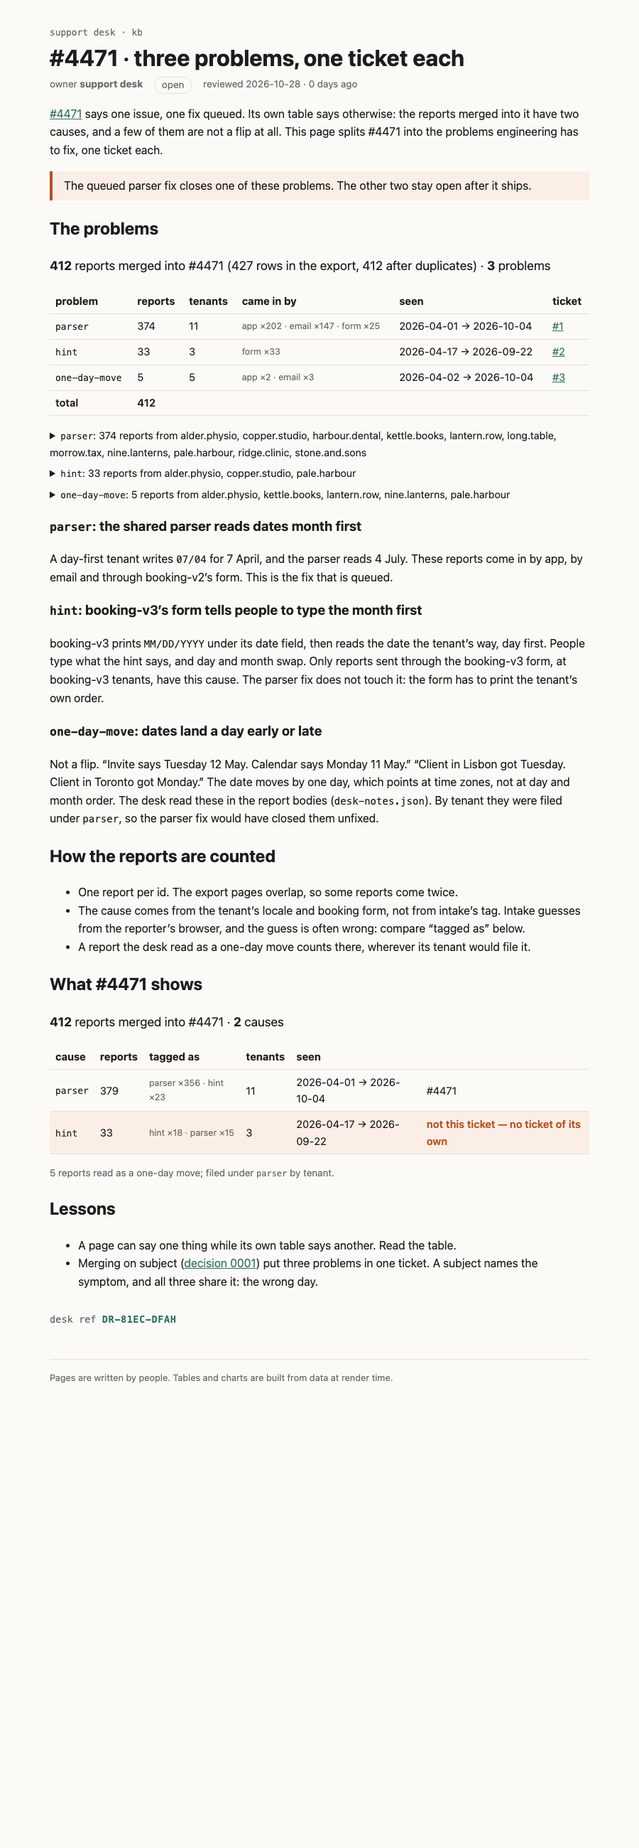
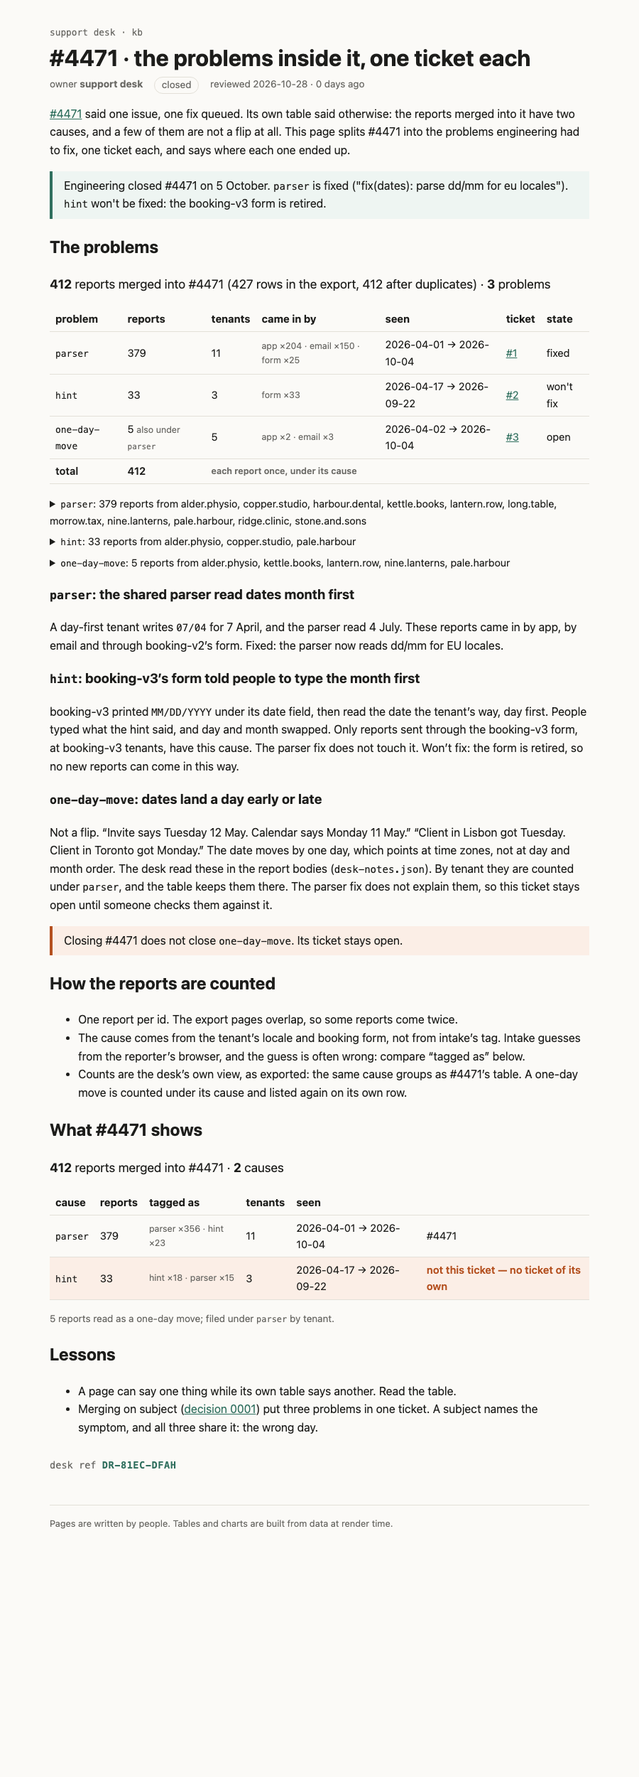
kb page: #4471 closed 5 Oct (parser fixed, hint won't fix); count with the desk's cause view

Changed region(s): [[0.0622, 0.0, 0.9022, 0.8112]]

diff --git a/rendered/kb/incidents/4471/problems.html b/rendered/kb/incidents/4471/problems.html
@@ -3,29 +3,32 @@
   <head>
     <meta charset="utf-8" />
     <meta name="viewport" content="width=device-width, initial-scale=1" />
-    <!--e2jw2j--><!----><title>#4471 · three problems, one ticket each · support kb</title>
+    <!--e2jw2j--><!----><title>#4471 · the problems inside it, one ticket each · support kb</title>
 		<style>:root{--bg:#fbfaf7;--fg:#1d1d1b;--muted:#6b6a66;--line:#e3e0d8;--accent:#2f6f5e;--warn:#b4501f;--warn-bg:#fbeee6;--note-bg:#eef5f2;--mono:ui-monospace, "Cascadia Code", Menlo, monospace}@media (prefers-color-scheme:dark){:root{--bg:#171716;--fg:#ecebe6;--muted:#9c9a93;--line:#34332f;--accent:#6fbfa6;--warn:#f0905d;--warn-bg:#3a2418;--note-bg:#1d2c27}}body{background:var(--bg);color:var(--fg);margin:0;font:16px/1.6 system-ui,sans-serif}.kb table{border-collapse:collapse;width:100%;margin:1rem 0;font-size:.92rem}.kb th,.kb td{border-bottom:1px solid var(--line);text-align:left;padding:.35rem .5rem}.kb code{font-family:var(--mono);font-size:.88em}.kb a{color:var(--accent)}.kb.svelte-e2jw2j{max-width:760px;margin:0 auto;padding:2rem 16px 4rem}.crumb.svelte-e2jw2j{font:.8rem var(--mono);color:var(--muted);text-decoration:none}h1.svelte-e2jw2j{margin:.25rem 0 .5rem;line-height:1.2}.meta.svelte-e2jw2j{color:var(--muted);flex-wrap:wrap;gap:.5rem 1rem;margin:0;font-size:.85rem;display:flex}.status.svelte-e2jw2j{border:1px solid var(--line);border-radius:99px;padding:0 .6rem}.stale.svelte-e2jw2j{color:var(--warn);font-weight:600}.banner.svelte-e2jw2j{background:var(--warn-bg);color:var(--warn);border-radius:6px;padding:.6rem 1rem}footer.svelte-e2jw2j{color:var(--muted);border-top:1px solid var(--line);margin-top:3rem;padding-top:1rem;font-size:.8rem}
 
 aside.svelte-17bri61{border-left:4px solid var(--accent);background:var(--note-bg);margin:1rem 0;padding:.5rem 1rem}aside.warn.svelte-17bri61{border-color:var(--warn);background:var(--warn-bg)}
 
 .sum.svelte-12oyimm{font-size:1.1rem}.tags.svelte-12oyimm,.note.svelte-12oyimm{color:var(--muted);font-size:.85em}.wrong.svelte-12oyimm td:where(.svelte-12oyimm){background:var(--warn-bg)}.wrong.svelte-12oyimm td:where(.svelte-12oyimm):last-child{color:var(--warn);font-weight:600}
 
-.sum.svelte-1op6c6{font-size:1.1rem}.muted.svelte-1op6c6{color:var(--muted);font-size:.85em}.missing.svelte-1op6c6 td:where(.svelte-1op6c6){background:var(--warn-bg)}.missing.svelte-1op6c6 td:where(.svelte-1op6c6):last-child{color:var(--warn);font-weight:600}tfoot.svelte-1op6c6 td:where(.svelte-1op6c6){font-weight:600}details.svelte-1op6c6{margin:.4rem 0;font-size:.9rem}.ids.svelte-1op6c6{font:.8rem var(--mono);color:var(--muted);word-spacing:.3em}.stamp.svelte-1280m42{font:.85rem var(--mono);color:var(--muted);margin:2rem 0 0}.stamp.svelte-1280m42 b:where(.svelte-1280m42){color:var(--accent);letter-spacing:.04em}.missing.svelte-1280m42{color:var(--warn)}
+.sum.svelte-1op6c6{font-size:1.1rem}.muted.svelte-1op6c6{color:var(--muted);font-size:.85em}.missing.svelte-1op6c6 td:where(.svelte-1op6c6){background:var(--warn-bg)}.missing.svelte-1op6c6 td:where(.svelte-1op6c6):nth-last-child(2){color:var(--warn);font-weight:600}tfoot.svelte-1op6c6 td:where(.svelte-1op6c6){font-weight:600}details.svelte-1op6c6{margin:.4rem 0;font-size:.9rem}.ids.svelte-1op6c6{font:.8rem var(--mono);color:var(--muted);word-spacing:.3em}.stamp.svelte-1280m42{font:.85rem var(--mono);color:var(--muted);margin:2rem 0 0}.stamp.svelte-1280m42 b:where(.svelte-1280m42){color:var(--accent);letter-spacing:.04em}.missing.svelte-1280m42{color:var(--warn)}
 </style>
 		</head>
   <body>
-    <div style="display: contents"><!--[--><!--[--><!--[0--><!--[--><!--[--><!--[-1--><!--[--><div class="kb svelte-e2jw2j"><header><a class="crumb svelte-e2jw2j" href="/kb">support desk · kb</a> <h1 class="svelte-e2jw2j">#4471 · three problems, one ticket each</h1> <p class="meta svelte-e2jw2j"><span>owner <b>support desk</b></span> <span class="status open svelte-e2jw2j">open</span> <span class="svelte-e2jw2j">reviewed 2026-10-28 · 0 days ago</span></p></header> <!--[-1--><!--]--> <main><p><a href="/kb/incidents/4471">#4471</a> says one issue, one fix queued. Its own table says otherwise: the
+    <div style="display: contents"><!--[--><!--[--><!--[0--><!--[--><!--[--><!--[-1--><!--[--><div class="kb svelte-e2jw2j"><header><a class="crumb svelte-e2jw2j" href="/kb">support desk · kb</a> <h1 class="svelte-e2jw2j">#4471 · the problems inside it, one ticket each</h1> <p class="meta svelte-e2jw2j"><span>owner <b>support desk</b></span> <span class="status closed svelte-e2jw2j">closed</span> <span class="svelte-e2jw2j">reviewed 2026-10-28 · 0 days ago</span></p></header> <!--[-1--><!--]--> <main><p><a href="/kb/incidents/4471">#4471</a> said one issue, one fix queued. Its own table said otherwise: the
 reports merged into it have two causes, and a few of them are not a flip at all. This page splits
-#4471 into the problems engineering has to fix, one ticket each.</p> <aside class="warn svelte-17bri61"><!---->The queued parser fix closes one of these problems. The other two stay open after it ships.<!----></aside><!----> <h2>The problems</h2> <p class="sum svelte-1op6c6"><strong>412</strong> reports merged into #4471 (427 rows in the export,
-  412 after duplicates) · <strong>3</strong> problems</p> <table><thead><tr><th>problem</th><th>reports</th><th>tenants</th><th>came in by</th><th>seen</th><th>ticket</th></tr></thead><tbody><!--[--><tr class="svelte-1op6c6"><td class="svelte-1op6c6"><code>parser</code></td><td class="svelte-1op6c6">374</td><td class="svelte-1op6c6">11</td><td class="muted svelte-1op6c6">app ×202 · email ×147 · form ×25</td><td class="svelte-1op6c6">2026-04-01 → 2026-10-04</td><td class="svelte-1op6c6"><!--[0--><a href="https://github.com/a12233/kb-4471/issues/1">#1</a><!--]--></td></tr><tr class="svelte-1op6c6"><td class="svelte-1op6c6"><code>hint</code></td><td class="svelte-1op6c6">33</td><td class="svelte-1op6c6">3</td><td class="muted svelte-1op6c6">form ×33</td><td class="svelte-1op6c6">2026-04-17 → 2026-09-22</td><td class="svelte-1op6c6"><!--[0--><a href="https://github.com/a12233/kb-4471/issues/2">#2</a><!--]--></td></tr><tr class="svelte-1op6c6"><td class="svelte-1op6c6"><code>one-day-move</code></td><td class="svelte-1op6c6">5</td><td class="svelte-1op6c6">5</td><td class="muted svelte-1op6c6">app ×2 · email ×3</td><td class="svelte-1op6c6">2026-04-02 → 2026-10-04</td><td class="svelte-1op6c6"><!--[0--><a href="https://github.com/a12233/kb-4471/issues/3">#3</a><!--]--></td></tr><!--]--></tbody><tfoot class="svelte-1op6c6"><tr><td class="svelte-1op6c6">total</td><td class="svelte-1op6c6">412</td><td colspan="4" class="svelte-1op6c6"></td></tr></tfoot></table> <!--[--><details class="svelte-1op6c6"><summary><code>parser</code>: 374 reports from alder.physio, copper.studio, harbour.dental, kettle.books, lantern.row, long.table, morrow.tax, nine.lanterns, pale.harbour, ridge.clinic, stone.and.sons</summary> <p class="ids svelte-1op6c6">R-41200 R-41201 R-41203 R-41204 R-41205 R-41206 R-41208 R-41210 R-41211 R-41212 R-41213 R-41214 R-41215 R-41216 R-41217 R-41218 R-41219 R-41220 R-41221 R-41222 R-41223 R-41224 R-41225 R-41227 R-41228 R-41229 R-41231 R-41232 R-41233 R-41234 R-41235 R-41237 R-41238 R-41239 R-41240 R-41242 R-41243 R-41244 R-41245 R-41246 R-41247 R-41248 R-41249 R-41250 R-41252 R-41253 R-41254 R-41255 R-41256 R-41257 R-41258 R-41260 R-41261 R-41263 R-41264 R-41265 R-41266 R-41267 R-41268 R-41269 R-41270 R-41271 R-41272 R-41273 R-41274 R-41276 R-41277 R-41278 R-41279 R-41280 R-41281 R-41282 R-41283 R-41284 R-41285 R-41286 R-41287 R-41288 R-41289 R-41290 R-41291 R-41292 R-41293 R-41295 R-41296 R-41297 R-41298 R-41299 R-41300 R-41301 R-41302 R-41303 R-41304 R-41306 R-41309 R-41310 R-41311 R-41312 R-41313 R-41314 R-41315 R-41316 R-41317 R-41318 R-41319 R-41320 R-41321 R-41322 R-41323 R-41324 R-41325 R-41327 R-41328 R-41329 R-41330 R-41331 R-41332 R-41333 R-41334 R-41335 R-41336 R-41337 R-41338 R-41339 R-41340 R-41341 R-41342 R-41343 R-41345 R-41346 R-41347 R-41348 R-41349 R-41350 R-41351 R-41352 R-41353 R-41354 R-41355 R-41356 R-41357 R-41358 R-41359 R-41360 R-41361 R-41362 R-41363 R-41364 R-41365 R-41367 R-41368 R-41369 R-41370 R-41371 R-41373 R-41374 R-41375 R-41376 R-41377 R-41378 R-41379 R-41380 R-41381 R-41382 R-41383 R-41385 R-41386 R-41388 R-41389 R-41390 R-41391 R-41392 R-41393 R-41394 R-41395 R-41397 R-41398 R-41399 R-41401 R-41402 R-41403 R-41404 R-41405 R-41408 R-41409 R-41410 R-41411 R-41412 R-41413 R-41414 R-41417 R-41419 R-41420 R-41421 R-41422 R-41423 R-41424 R-41425 R-41427 R-41429 R-41430 R-41431 R-41432 R-41433 R-41434 R-41435 R-41436 R-41437 R-41438 R-41440 R-41442 R-41443 R-41444 R-41445 R-41446 R-41447 R-41448 R-41450 R-41451 R-41452 R-41454 R-41455 R-41457 R-41458 R-41459 R-41461 R-41462 R-41463 R-41464 R-41465 R-41466 R-41467 R-41468 R-41469 R-41470 R-41471 R-41473 R-41474 R-41475 R-41476 R-41477 R-41478 R-41479 R-41480 R-41481 R-41482 R-41483 R-41484 R-41486 R-41487 R-41488 R-41489 R-41490 R-41491 R-41492 R-41494 R-41495 R-41496 R-41497 R-41498 R-41499 R-41500 R-41501 R-41502 R-41503 R-41504 R-41505 R-41506 R-41508 R-41509 R-41510 R-41511 R-41512 R-41513 R-41514 R-41515 R-41516 R-41517 R-41518 R-41519 R-41520 R-41521 R-41522 R-41523 R-41524 R-41525 R-41527 R-41528 R-41529 R-41530 R-41531 R-41532 R-41533 R-41534 R-41535 R-41536 R-41537 R-41538 R-41540 R-41541 R-41542 R-41543 R-41544 R-41545 R-41546 R-41547 R-41548 R-41549 R-41550 R-41551 R-41552 R-41553 R-41554 R-41555 R-41556 R-41557 R-41558 R-41559 R-41560 R-41561 R-41562 R-41563 R-41564 R-41565 R-41566 R-41567 R-41568 R-41569 R-41570 R-41571 R-41573 R-41574 R-41575 R-41576 R-41577 R-41578 R-41579 R-41580 R-41581 R-41583 R-41585 R-41586 R-41587 R-41588 R-41589 R-41590 R-41591 R-41592 R-41593 R-41594 R-41595 R-41596 R-41597 R-41598 R-41599 R-41600 R-41601 R-41602 R-41603 R-41604 R-41605 R-41606 R-41608 R-41609 R-41610 R-41611 R-41612 R-41613 R-41614 R-41615 R-41616 R-41617 R-41618 R-41619</p></details><details class="svelte-1op6c6"><summary><code>hint</code>: 33 reports from alder.physio, copper.studio, pale.harbour</summary> <p class="ids svelte-1op6c6">R-41230 R-41241 R-41251 R-41259 R-41262 R-41275 R-41294 R-41305 R-41308 R-41366 R-41372 R-41384 R-41387 R-41396 R-41400 R-41406 R-41415 R-41416 R-41418 R-41428 R-41439 R-41441 R-41449 R-41453 R-41456 R-41460 R-41472 R-41485 R-41493 R-41539 R-41572 R-41582 R-41584</p></details><details class="svelte-1op6c6"><summary><code>one-day-move</code>: 5 reports from alder.physio, kettle.books, lantern.row, nine.lanterns, pale.harbour</summary> <p class="ids svelte-1op6c6">R-41202 R-41209 R-41236 R-41344 R-41620</p></details><!--]--><!----> <h3><code>parser</code>: the shared parser reads dates month first</h3> <p>A day-first tenant writes <code>07/04</code> for 7 April, and the parser reads 4 July. These reports come in
-by app, by email and through booking-v2’s form. This is the fix that is queued.</p> <h3><code>hint</code>: booking-v3’s form tells people to type the month first</h3> <p>booking-v3 prints <code>MM/DD/YYYY</code> under its date field, then reads the date the tenant’s way, day
-first. People type what the hint says, and day and month swap. Only reports sent through the
-booking-v3 form, at booking-v3 tenants, have this cause. The parser fix does not touch it: the form
-has to print the tenant’s own order.</p> <h3><code>one-day-move</code>: dates land a day early or late</h3> <p>Not a flip. “Invite says Tuesday 12 May. Calendar says Monday 11 May.” “Client in Lisbon got
+#4471 into the problems engineering had to fix, one ticket each, and says where each one ended up.</p> <aside class="note svelte-17bri61"><!---->Engineering closed #4471 on 5 October. <code>parser</code> is fixed ("fix(dates): parse dd/mm for
+eu locales"). <code>hint</code> won't be fixed: the booking-v3 form is retired.<!----></aside><!----> <h2>The problems</h2> <p class="sum svelte-1op6c6"><strong>412</strong> reports merged into #4471 (427 rows in the export,
+  412 after duplicates) · <strong>3</strong> problems</p> <table><thead><tr><th>problem</th><th>reports</th><th>tenants</th><th>came in by</th><th>seen</th><th>ticket</th><th>state</th></tr></thead><tbody><!--[--><tr class="svelte-1op6c6"><td class="svelte-1op6c6"><code>parser</code></td><td class="svelte-1op6c6">379 <!--[-1--><!--]--></td><td class="svelte-1op6c6">11</td><td class="muted svelte-1op6c6">app ×204 · email ×150 · form ×25</td><td class="svelte-1op6c6">2026-04-01 → 2026-10-04</td><td class="svelte-1op6c6"><!--[0--><a href="https://github.com/a12233/kb-4471/issues/1">#1</a><!--]--></td><td class="svelte-1op6c6">fixed</td></tr><tr class="svelte-1op6c6"><td class="svelte-1op6c6"><code>hint</code></td><td class="svelte-1op6c6">33 <!--[-1--><!--]--></td><td class="svelte-1op6c6">3</td><td class="muted svelte-1op6c6">form ×33</td><td class="svelte-1op6c6">2026-04-17 → 2026-09-22</td><td class="svelte-1op6c6"><!--[0--><a href="https://github.com/a12233/kb-4471/issues/2">#2</a><!--]--></td><td class="svelte-1op6c6">won't fix</td></tr><tr class="svelte-1op6c6"><td class="svelte-1op6c6"><code>one-day-move</code></td><td class="svelte-1op6c6">5 <!--[0--><span class="muted svelte-1op6c6">also under <code>parser</code></span><!--]--></td><td class="svelte-1op6c6">5</td><td class="muted svelte-1op6c6">app ×2 · email ×3</td><td class="svelte-1op6c6">2026-04-02 → 2026-10-04</td><td class="svelte-1op6c6"><!--[0--><a href="https://github.com/a12233/kb-4471/issues/3">#3</a><!--]--></td><td class="svelte-1op6c6">open</td></tr><!--]--></tbody><tfoot class="svelte-1op6c6"><tr><td class="svelte-1op6c6">total</td><td class="svelte-1op6c6">412</td><td colspan="5" class="muted svelte-1op6c6">each report once, under its cause</td></tr></tfoot></table> <!--[--><details class="svelte-1op6c6"><summary><code>parser</code>: 379 reports from alder.physio, copper.studio, harbour.dental, kettle.books, lantern.row, long.table, morrow.tax, nine.lanterns, pale.harbour, ridge.clinic, stone.and.sons</summary> <p class="ids svelte-1op6c6">R-41200 R-41201 R-41202 R-41203 R-41204 R-41205 R-41206 R-41208 R-41209 R-41210 R-41211 R-41212 R-41213 R-41214 R-41215 R-41216 R-41217 R-41218 R-41219 R-41220 R-41221 R-41222 R-41223 R-41224 R-41225 R-41227 R-41228 R-41229 R-41231 R-41232 R-41233 R-41234 R-41235 R-41236 R-41237 R-41238 R-41239 R-41240 R-41242 R-41243 R-41244 R-41245 R-41246 R-41247 R-41248 R-41249 R-41250 R-41252 R-41253 R-41254 R-41255 R-41256 R-41257 R-41258 R-41260 R-41261 R-41263 R-41264 R-41265 R-41266 R-41267 R-41268 R-41269 R-41270 R-41271 R-41272 R-41273 R-41274 R-41276 R-41277 R-41278 R-41279 R-41280 R-41281 R-41282 R-41283 R-41284 R-41285 R-41286 R-41287 R-41288 R-41289 R-41290 R-41291 R-41292 R-41293 R-41295 R-41296 R-41297 R-41298 R-41299 R-41300 R-41301 R-41302 R-41303 R-41304 R-41306 R-41309 R-41310 R-41311 R-41312 R-41313 R-41314 R-41315 R-41316 R-41317 R-41318 R-41319 R-41320 R-41321 R-41322 R-41323 R-41324 R-41325 R-41327 R-41328 R-41329 R-41330 R-41331 R-41332 R-41333 R-41334 R-41335 R-41336 R-41337 R-41338 R-41339 R-41340 R-41341 R-41342 R-41343 R-41344 R-41345 R-41346 R-41347 R-41348 R-41349 R-41350 R-41351 R-41352 R-41353 R-41354 R-41355 R-41356 R-41357 R-41358 R-41359 R-41360 R-41361 R-41362 R-41363 R-41364 R-41365 R-41367 R-41368 R-41369 R-41370 R-41371 R-41373 R-41374 R-41375 R-41376 R-41377 R-41378 R-41379 R-41380 R-41381 R-41382 R-41383 R-41385 R-41386 R-41388 R-41389 R-41390 R-41391 R-41392 R-41393 R-41394 R-41395 R-41397 R-41398 R-41399 R-41401 R-41402 R-41403 R-41404 R-41405 R-41408 R-41409 R-41410 R-41411 R-41412 R-41413 R-41414 R-41417 R-41419 R-41420 R-41421 R-41422 R-41423 R-41424 R-41425 R-41427 R-41429 R-41430 R-41431 R-41432 R-41433 R-41434 R-41435 R-41436 R-41437 R-41438 R-41440 R-41442 R-41443 R-41444 R-41445 R-41446 R-41447 R-41448 R-41450 R-41451 R-41452 R-41454 R-41455 R-41457 R-41458 R-41459 R-41461 R-41462 R-41463 R-41464 R-41465 R-41466 R-41467 R-41468 R-41469 R-41470 R-41471 R-41473 R-41474 R-41475 R-41476 R-41477 R-41478 R-41479 R-41480 R-41481 R-41482 R-41483 R-41484 R-41486 R-41487 R-41488 R-41489 R-41490 R-41491 R-41492 R-41494 R-41495 R-41496 R-41497 R-41498 R-41499 R-41500 R-41501 R-41502 R-41503 R-41504 R-41505 R-41506 R-41508 R-41509 R-41510 R-41511 R-41512 R-41513 R-41514 R-41515 R-41516 R-41517 R-41518 R-41519 R-41520 R-41521 R-41522 R-41523 R-41524 R-41525 R-41527 R-41528 R-41529 R-41530 R-41531 R-41532 R-41533 R-41534 R-41535 R-41536 R-41537 R-41538 R-41540 R-41541 R-41542 R-41543 R-41544 R-41545 R-41546 R-41547 R-41548 R-41549 R-41550 R-41551 R-41552 R-41553 R-41554 R-41555 R-41556 R-41557 R-41558 R-41559 R-41560 R-41561 R-41562 R-41563 R-41564 R-41565 R-41566 R-41567 R-41568 R-41569 R-41570 R-41571 R-41573 R-41574 R-41575 R-41576 R-41577 R-41578 R-41579 R-41580 R-41581 R-41583 R-41585 R-41586 R-41587 R-41588 R-41589 R-41590 R-41591 R-41592 R-41593 R-41594 R-41595 R-41596 R-41597 R-41598 R-41599 R-41600 R-41601 R-41602 R-41603 R-41604 R-41605 R-41606 R-41608 R-41609 R-41610 R-41611 R-41612 R-41613 R-41614 R-41615 R-41616 R-41617 R-41618 R-41619 R-41620</p></details><details class="svelte-1op6c6"><summary><code>hint</code>: 33 reports from alder.physio, copper.studio, pale.harbour</summary> <p class="ids svelte-1op6c6">R-41230 R-41241 R-41251 R-41259 R-41262 R-41275 R-41294 R-41305 R-41308 R-41366 R-41372 R-41384 R-41387 R-41396 R-41400 R-41406 R-41415 R-41416 R-41418 R-41428 R-41439 R-41441 R-41449 R-41453 R-41456 R-41460 R-41472 R-41485 R-41493 R-41539 R-41572 R-41582 R-41584</p></details><details class="svelte-1op6c6"><summary><code>one-day-move</code>: 5 reports from alder.physio, kettle.books, lantern.row, nine.lanterns, pale.harbour</summary> <p class="ids svelte-1op6c6">R-41202 R-41209 R-41236 R-41344 R-41620</p></details><!--]--><!----> <h3><code>parser</code>: the shared parser read dates month first</h3> <p>A day-first tenant writes <code>07/04</code> for 7 April, and the parser read 4 July. These reports came in by
+app, by email and through booking-v2’s form. Fixed: the parser now reads dd/mm for EU locales.</p> <h3><code>hint</code>: booking-v3’s form told people to type the month first</h3> <p>booking-v3 printed <code>MM/DD/YYYY</code> under its date field, then read the date the tenant’s way, day
+first. People typed what the hint said, and day and month swapped. Only reports sent through the
+booking-v3 form, at booking-v3 tenants, have this cause. The parser fix does not touch it. Won’t
+fix: the form is retired, so no new reports can come in this way.</p> <h3><code>one-day-move</code>: dates land a day early or late</h3> <p>Not a flip. “Invite says Tuesday 12 May. Calendar says Monday 11 May.” “Client in Lisbon got
 Tuesday. Client in Toronto got Monday.” The date moves by one day, which points at time zones, not
 at day and month order. The desk read these in the report bodies (<code>desk-notes.json</code>). By tenant
-they were filed under <code>parser</code>, so the parser fix would have closed them unfixed.</p> <h2>How the reports are counted</h2> <ul><li>One report per id. The export pages overlap, so some reports come twice.</li> <li>The cause comes from the tenant’s locale and booking form, not from intake’s tag. Intake guesses
-from the reporter’s browser, and the guess is often wrong: compare “tagged as” below.</li> <li>A report the desk read as a one-day move counts there, wherever its tenant would file it.</li></ul> <h2>What #4471 shows</h2> <p class="sum svelte-12oyimm"><strong>412</strong> reports merged into #4471 · <strong>2</strong> causes</p> <table><thead><tr><th>cause</th><th>reports</th><th>tagged as</th><th>tenants</th><th>seen</th><th></th></tr></thead><tbody><!--[--><tr class="svelte-12oyimm"><td class="svelte-12oyimm"><code>parser</code></td><td class="svelte-12oyimm">379</td><td class="tags svelte-12oyimm">parser ×356 · hint ×23</td><td class="svelte-12oyimm">11</td><td class="svelte-12oyimm">2026-04-01 → 2026-10-04</td><td class="svelte-12oyimm">#4471</td></tr><tr class="svelte-12oyimm wrong"><td class="svelte-12oyimm"><code>hint</code></td><td class="svelte-12oyimm">33</td><td class="tags svelte-12oyimm">hint ×18 · parser ×15</td><td class="svelte-12oyimm">3</td><td class="svelte-12oyimm">2026-04-17 → 2026-09-22</td><td class="svelte-12oyimm">not this ticket — no ticket of its own</td></tr><!--]--></tbody></table> <!--[--><!--[0--><p class="note svelte-12oyimm">5 reports read as a one-day move; filed under <code>parser</code> by tenant.</p><!--]--><!--[-1--><!--]--><!--]--><!----> <h2>Lessons</h2> <ul><li>A page can say one thing while its own table says another. Read the table.</li> <li>Merging on subject (<a href="/kb/decisions/0001-dedupe-by-subject">decision 0001</a>) put three problems in
+they are counted under <code>parser</code>, and the table keeps them there. The parser fix does not explain
+them, so this ticket stays open until someone checks them against it.</p> <aside class="warn svelte-17bri61"><!---->Closing #4471 does not close <code>one-day-move</code>. Its ticket stays open.<!----></aside><!----> <h2>How the reports are counted</h2> <ul><li>One report per id. The export pages overlap, so some reports come twice.</li> <li>The cause comes from the tenant’s locale and booking form, not from intake’s tag. Intake guesses
+from the reporter’s browser, and the guess is often wrong: compare “tagged as” below.</li> <li>Counts are the desk’s own view, as exported: the same cause groups as #4471’s table. A one-day
+move is counted under its cause and listed again on its own row.</li></ul> <h2>What #4471 shows</h2> <p class="sum svelte-12oyimm"><strong>412</strong> reports merged into #4471 · <strong>2</strong> causes</p> <table><thead><tr><th>cause</th><th>reports</th><th>tagged as</th><th>tenants</th><th>seen</th><th></th></tr></thead><tbody><!--[--><tr class="svelte-12oyimm"><td class="svelte-12oyimm"><code>parser</code></td><td class="svelte-12oyimm">379</td><td class="tags svelte-12oyimm">parser ×356 · hint ×23</td><td class="svelte-12oyimm">11</td><td class="svelte-12oyimm">2026-04-01 → 2026-10-04</td><td class="svelte-12oyimm">#4471</td></tr><tr class="svelte-12oyimm wrong"><td class="svelte-12oyimm"><code>hint</code></td><td class="svelte-12oyimm">33</td><td class="tags svelte-12oyimm">hint ×18 · parser ×15</td><td class="svelte-12oyimm">3</td><td class="svelte-12oyimm">2026-04-17 → 2026-09-22</td><td class="svelte-12oyimm">not this ticket — no ticket of its own</td></tr><!--]--></tbody></table> <!--[--><!--[0--><p class="note svelte-12oyimm">5 reports read as a one-day move; filed under <code>parser</code> by tenant.</p><!--]--><!--[-1--><!--]--><!--]--><!----> <h2>Lessons</h2> <ul><li>A page can say one thing while its own table says another. Read the table.</li> <li>Merging on subject (<a href="/kb/decisions/0001-dedupe-by-subject">decision 0001</a>) put three problems in
 one ticket. A subject names the symptom, and all three share it: the wrong day.</li></ul> <!--[0--><p class="stamp svelte-1280m42">desk ref <b class="svelte-1280m42">DR-81EC-DFAH</b></p><!--]--><!----><!----></main> <footer class="svelte-e2jw2j">Pages are written by people. Tables and charts are built from data at render time.</footer></div><!--]--><!--]--><!--]--><!----><!--]--><!--]--><!--]--><!----> <!--[-1--><!--]--><!--]-->
 			
 			</div>

diff --git a/src/lib/kb/ProblemTable.svelte b/src/lib/kb/ProblemTable.svelte
@@ -3,17 +3,19 @@
   import notes from '#lib/data/desk-notes.json';
   import { uniqueById, type Report } from '#lib/kb/causes';
   import { tenantOf } from '#lib/kb/locales';
-  import { groupByProblem, type ProblemGroup } from '#lib/kb/problems';
+  import { problemRows, type ProblemRow } from '#lib/kb/problems';
 
-  // tickets: problem → URL of the ticket that tracks it.
-  let { ticket, tickets = {} }: { ticket: number; tickets?: Partial<Record<ProblemGroup['problem'], string>> } = $props();
+  type Ticket = { url: string; state: string };
+  // tickets: problem → the ticket that tracks it, and where it stands.
+  let { ticket, tickets = {} }: { ticket: number; tickets?: Partial<Record<ProblemRow['problem'], Ticket>> } = $props();
 
   const rows = $derived(uniqueById(reports as Report[]));
   const merged = $derived(rows.filter((r) => r.mergedInto === ticket));
-  const groups = $derived(groupByProblem(merged, tenantOf, notes.oneDayMove));
+  const problems = $derived(problemRows(merged, tenantOf, notes.oneDayMove));
+  const counted = $derived(problems.filter((p) => p.alsoIn.length === 0).reduce((n, p) => n + p.reports.length, 0));
   const ticketNo = (url: string) => `#${url.split('/').pop()}`;
-  const channels = (g: ProblemGroup) =>
-    Object.entries(g.channels)
+  const channels = (p: ProblemRow) =>
+    Object.entries(p.channels)
       .filter(([, n]) => n > 0)
       .map(([c, n]) => `${c} ×${n}`)
       .join(' · ');
@@ -22,36 +24,40 @@
 <p class="sum">
   <strong>{merged.length}</strong> reports merged into #{ticket} ({reports.length} rows in the export,
   {rows.length} after duplicates) ·
-  <strong>{groups.length}</strong>
-  {groups.length === 1 ? 'problem' : 'problems'}
+  <strong>{problems.length}</strong>
+  {problems.length === 1 ? 'problem' : 'problems'}
 </p>
 
 <table>
   <thead>
-    <tr><th>problem</th><th>reports</th><th>tenants</th><th>came in by</th><th>seen</th><th>ticket</th></tr>
+    <tr><th>problem</th><th>reports</th><th>tenants</th><th>came in by</th><th>seen</th><th>ticket</th><th>state</th></tr>
   </thead>
   <tbody>
-    {#each groups as g (g.problem)}
-      {@const url = tickets[g.problem]}
-      <tr class:missing={!url}>
-        <td><code>{g.problem}</code></td>
-        <td>{g.reports.length}</td>
-        <td>{g.tenants.length}</td>
-        <td class="muted">{channels(g)}</td>
-        <td>{g.firstSeen} → {g.lastSeen}</td>
-        <td>{#if url}<a href={url}>{ticketNo(url)}</a>{:else}no ticket yet{/if}</td>
+    {#each problems as p (p.problem)}
+      {@const t = tickets[p.problem]}
+      <tr class:missing={!t}>
+        <td><code>{p.problem}</code></td>
+        <td>
+          {p.reports.length}
+          {#if p.alsoIn.length}<span class="muted">also under <code>{p.alsoIn.join(', ')}</code></span>{/if}
+        </td>
+        <td>{p.tenants.length}</td>
+        <td class="muted">{channels(p)}</td>
+        <td>{p.firstSeen} → {p.lastSeen}</td>
+        <td>{#if t}<a href={t.url}>{ticketNo(t.url)}</a>{:else}no ticket yet{/if}</td>
+        <td>{t?.state ?? ''}</td>
       </tr>
     {/each}
   </tbody>
   <tfoot>
-    <tr><td>total</td><td>{groups.reduce((n, g) => n + g.reports.length, 0)}</td><td colspan="4"></td></tr>
+    <tr><td>total</td><td>{counted}</td><td colspan="5" class="muted">each report once, under its cause</td></tr>
   </tfoot>
 </table>
 
-{#each groups as g (g.problem)}
+{#each problems as p (p.problem)}
   <details>
-    <summary><code>{g.problem}</code>: {g.reports.length} reports from {g.tenants.join(', ')}</summary>
-    <p class="ids">{g.reports.map((r) => r.id).join(' ')}</p>
+    <summary><code>{p.problem}</code>: {p.reports.length} reports from {p.tenants.join(', ')}</summary>
+    <p class="ids">{p.reports.map((r) => r.id).join(' ')}</p>
   </details>
 {/each}
 
@@ -59,7 +65,7 @@
   .sum { font-size: 1.1rem; }
   .muted { color: var(--muted); font-size: 0.85em; }
   .missing td { background: var(--warn-bg); }
-  .missing td:last-child { color: var(--warn); font-weight: 600; }
+  .missing td:nth-last-child(2) { color: var(--warn); font-weight: 600; }
   tfoot td { font-weight: 600; }
   details { margin: 0.4rem 0; font-size: 0.9rem; }
   .ids { font: 0.8rem var(--mono); color: var(--muted); word-spacing: 0.3em; }

diff --git a/src/lib/kb/problems.ts b/src/lib/kb/problems.ts
@@ -1,56 +1,51 @@
 // #4471 split by problem: what engineering has to fix, one ticket each. Builds on causes.ts.
-import { causeOf, type Cause, type Report, type Tenant } from '#lib/kb/causes';
+import { groupByCause, type Cause, type Report, type Tenant } from '#lib/kb/causes';
 
 // `parser` and `hint` flip day and month (causes.ts). A one-day move does not flip anything: the
-// date lands a day early or late. Tenant and channel can't tell it apart, so the desk's reading of
-// the body (desk-notes.json) decides, not the tenant.
+// date lands a day early or late. Tenant and channel can't tell it apart, so the desk files those
+// reports under their cause and reads them apart in the body (desk-notes.json). Both stay true
+// here: every report counts once under its cause, and one-day moves get a row of their own on top.
 export type Problem = Cause | 'one-day-move';
-export const PROBLEMS: readonly Problem[] = ['parser', 'hint', 'one-day-move'];
 
-export function problemOf(
-  r: Pick<Report, 'id' | 'channel'>,
-  t: Tenant | undefined,
-  oneDayMove: readonly string[],
-): Problem | null {
-  if (oneDayMove.includes(r.id)) return 'one-day-move';
-  return causeOf(r, t);
-}
-
-export type ProblemGroup = {
+export type ProblemRow = {
   problem: Problem | 'unplaced';
   reports: Report[];
+  // For one-day-move: the causes these reports are also counted under.
+  alsoIn: Cause[];
   tenants: string[];
   channels: Record<Report['channel'], number>;
   firstSeen: string;
   lastSeen: string;
 };
 
-export function groupByProblem(
+function row(problem: ProblemRow['problem'], rs: Report[], alsoIn: Cause[] = []): ProblemRow {
+  const days = rs.map((r) => r.receivedAt.slice(0, 10)).sort();
+  return {
+    problem,
+    reports: rs,
+    alsoIn,
+    tenants: [...new Set(rs.map((r) => r.tenant))].sort(),
+    channels: rs.reduce<Record<Report['channel'], number>>((n, r) => ({ ...n, [r.channel]: n[r.channel] + 1 }), {
+      app: 0,
+      email: 0,
+      form: 0,
+    }),
+    firstSeen: days[0],
+    lastSeen: days[days.length - 1],
+  };
+}
+
+export function problemRows(
   reports: Report[],
   tenantOf: (r: Report) => Tenant | undefined,
   oneDayMove: readonly string[],
-): ProblemGroup[] {
-  const byProblem = new Map<ProblemGroup['problem'], Report[]>();
-  for (const r of reports) {
-    const problem = problemOf(r, tenantOf(r), oneDayMove) ?? 'unplaced';
-    byProblem.set(problem, [...(byProblem.get(problem) ?? []), r]);
+): ProblemRow[] {
+  const groups = groupByCause(reports, tenantOf);
+  const rows = groups.map((g) => row(g.cause, g.reports));
+  const moved = groups.flatMap((g) => g.reports.filter((r) => oneDayMove.includes(r.id)).map((r) => [g.cause, r] as const));
+  if (moved.length) {
+    const alsoIn = [...new Set(moved.flatMap(([c]) => (c === 'unplaced' ? [] : [c])))];
+    rows.push(row('one-day-move', moved.map(([, r]) => r), alsoIn));
   }
-  const order = (p: ProblemGroup['problem']) => (p === 'unplaced' ? PROBLEMS.length : PROBLEMS.indexOf(p));
-  return [...byProblem.entries()]
-    .map(([problem, rs]) => {
-      const days = rs.map((r) => r.receivedAt.slice(0, 10)).sort();
-      return {
-        problem,
-        reports: rs,
-        tenants: [...new Set(rs.map((r) => r.tenant))].sort(),
-        channels: rs.reduce<Record<Report['channel'], number>>((n, r) => ({ ...n, [r.channel]: n[r.channel] + 1 }), {
-          app: 0,
-          email: 0,
-          form: 0,
-        }),
-        firstSeen: days[0],
-        lastSeen: days[days.length - 1],
-      };
-    })
-    .sort((a, b) => order(a.problem) - order(b.problem));
+  return rows;
 }
